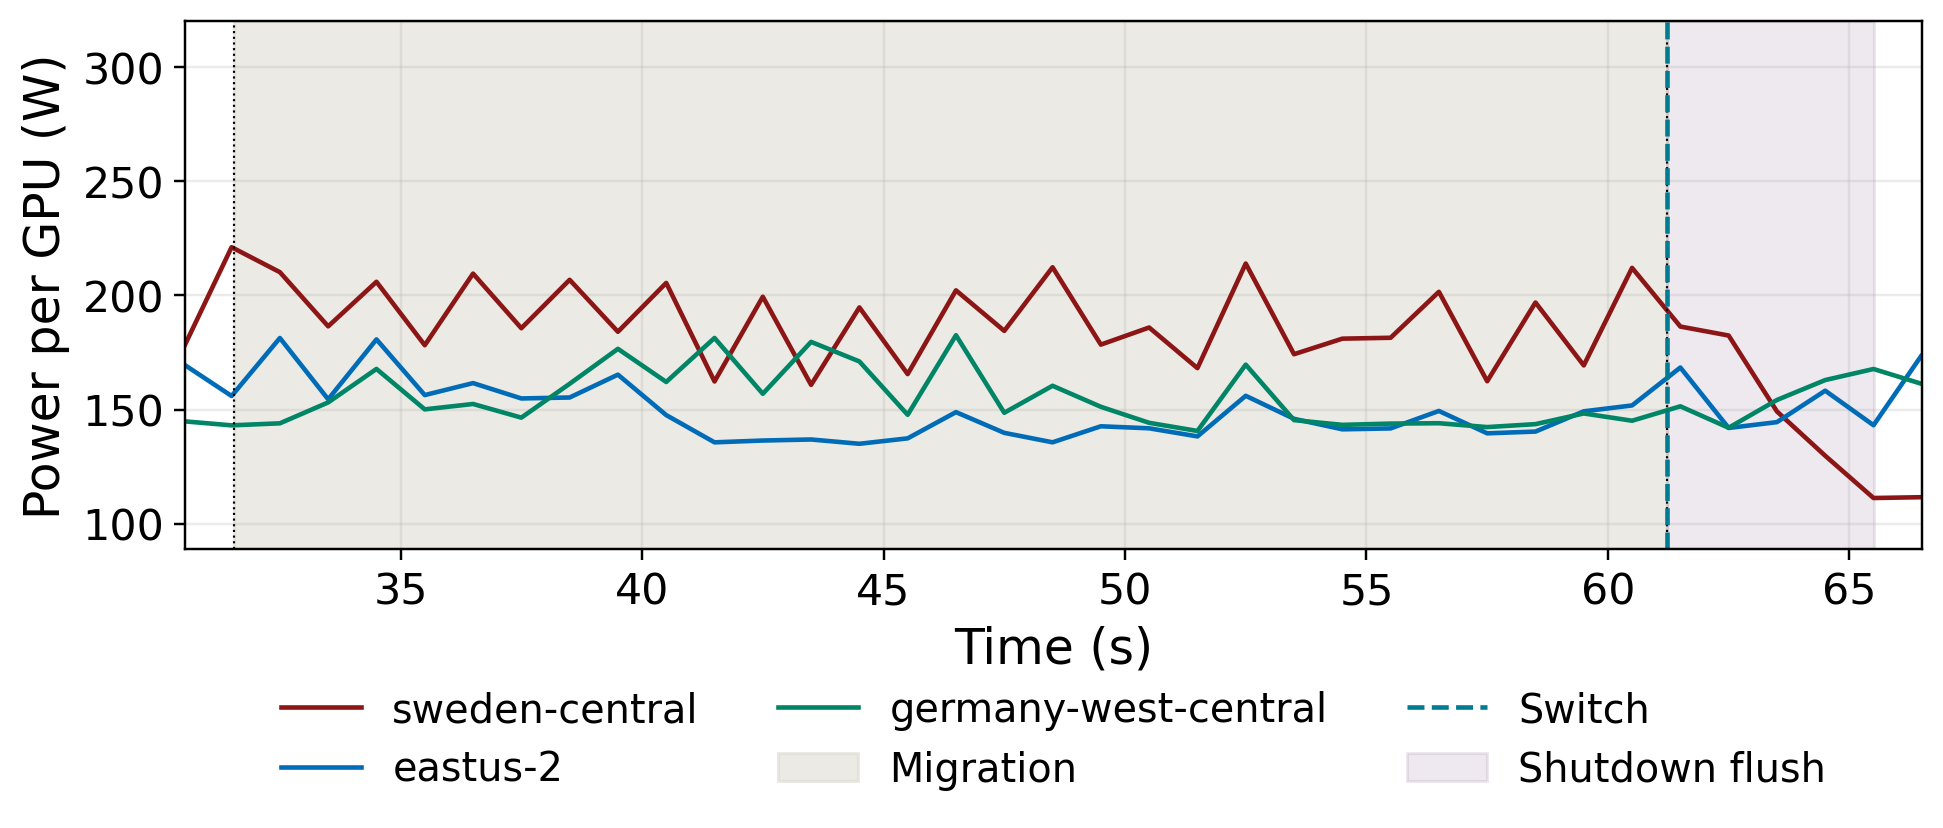
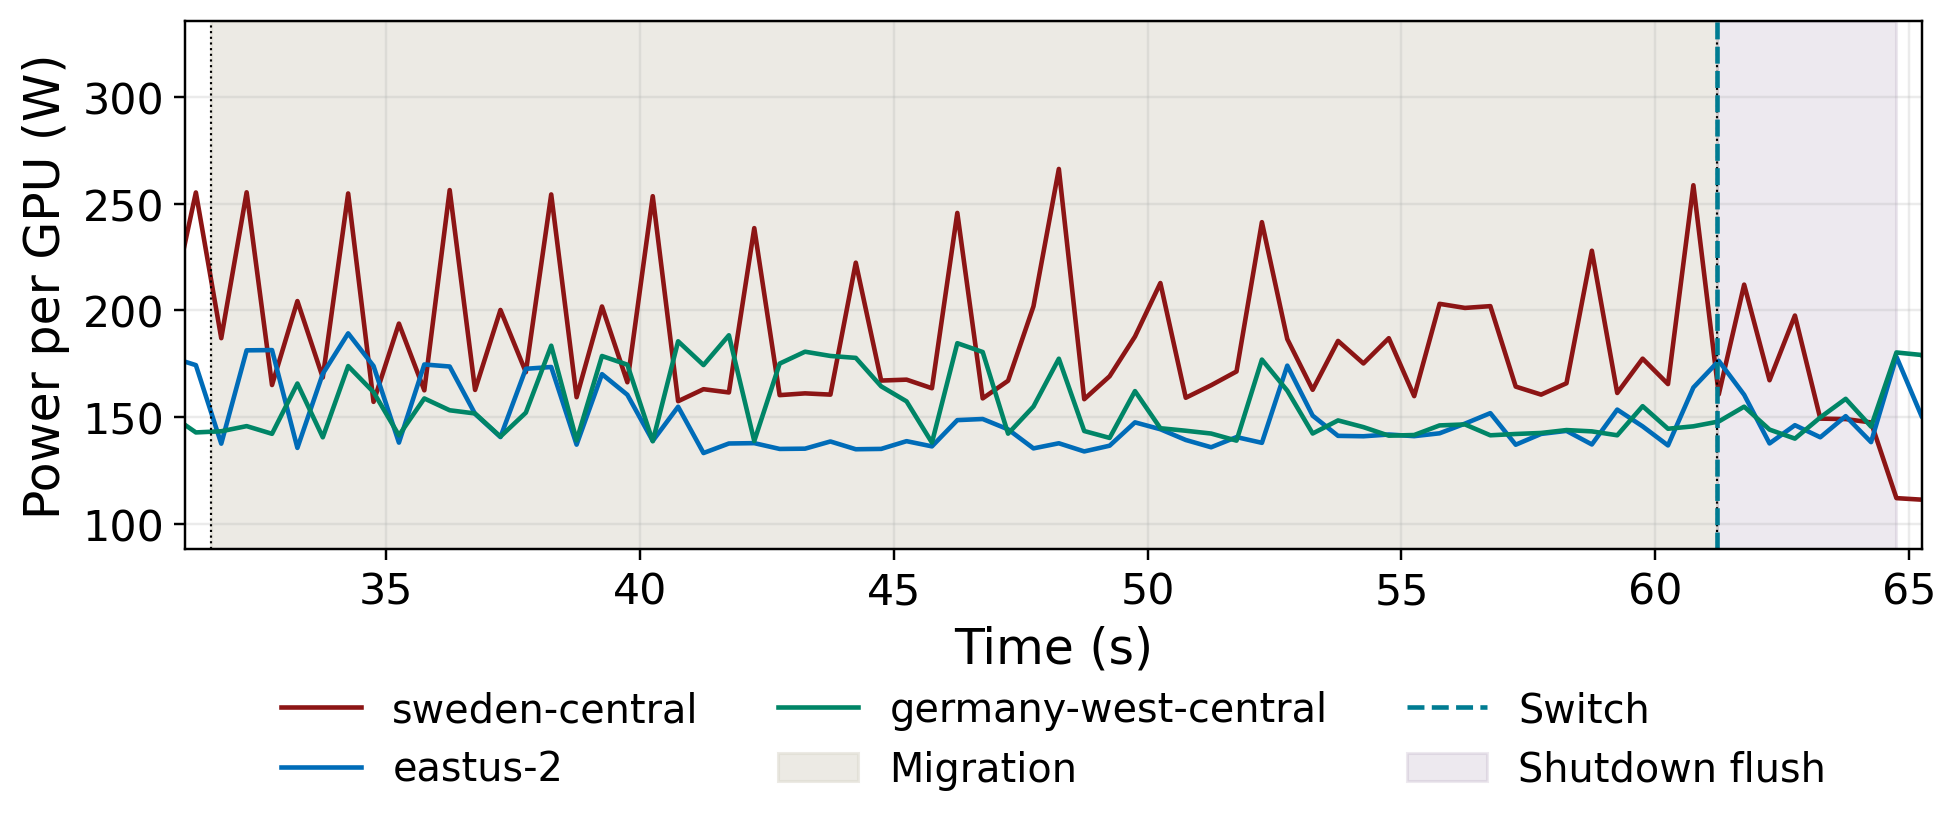
Plot handoff power in 500 ms bins

diff --git a/agent-migrate/queue-haul/tests/test_plot_handoff_power.py b/agent-migrate/queue-haul/tests/test_plot_handoff_power.py
@@ -1,11 +1,11 @@
 """
 Claim:
-Handoff plots align each region's 1-second power means to event timestamps and
+Handoff plots align each region's 500 ms power means to event timestamps and
 show the post-switch shutdown flush until source power reaches its idle band.
 
 Plausible wrong implementations:
 - use the wrong event as the shared time origin
-- place a boundary sample in the wrong 1-second bin
+- place a boundary sample in the wrong 500 ms bin
 - assign a destination's samples to the wrong region
 - aggregate power across regions instead of within each region and time bin
 - hide the sub-second traffic switch by rendering it as a zero-width span
@@ -66,14 +66,14 @@ def test_reduce_aligns_power_regions_and_queue_depth(tmp_path, monkeypatch):
     assert len(queue) == 12
     assert (tmp_path / "power_handoff.png").is_file()
     axis = p.plt.gcf().axes[0]
-    assert axis.get_xlim() == (0, 3.5)
+    assert axis.get_xlim() == (.5, 3.25)
     switch = next(line for line in axis.lines if line.get_label() == "Switch")
     assert list(switch.get_xdata()) == [1.5001, 1.5001]
     shutdown = next(patch for patch in axis.patches
                     if patch.get_label() == "Shutdown flush")
-    assert (shutdown.get_x(), round(shutdown.get_width(), 4)) == (1.5001, .9999)
+    assert (shutdown.get_x(), round(shutdown.get_width(), 4)) == (1.5001, 1.2499)
 
 
-def test_bin_mean_uses_fixed_one_second_windows():
-    assert p.bin_mean([(.9, 10), (1, 20), (1.9, 40), (2, 80)]) == (
-        [.5, 1.5, 2.5], [10, 30, 80])
+def test_bin_mean_uses_fixed_half_second_windows():
+    assert p.bin_mean([(.49, 10), (.5, 20), (.99, 40), (1, 80)]) == (
+        [.25, .75, 1.25], [10, 30, 80])

diff --git a/agent-migrate/queue-haul/plot_handoff_power.py b/agent-migrate/queue-haul/plot_handoff_power.py
@@ -19,7 +19,7 @@ COLORS = {"sweden": "#8C1515", "east": "#006CB8",
 REGIONS = {"sweden": "sweden-central", "east": "eastus-2",
            "west": "west-europe", "germany": "germany-west-central"}
 SPANS = (("Migration", "handoff_start", "handoff_end", "#DAD7CB", .5),)
-BIN_S = 1
+BIN_S = .5
 IDLE_MARGIN_W = 5
 
 

diff --git a/agent-migrate/queue-haul/README.md b/agent-migrate/queue-haul/README.md
@@ -723,7 +723,7 @@ checksum-pinned raw data.
 Sweden-to-East-US-2/West-Germany campaign with 80% source and 50% load at each
 destination. Queue Haul admitted all eight sessions in 29.669 s and KV-only in
 25.159 s; replay-only admitted six before the fixed 30-second deadline. The
-bundle includes raw `power.csv`, load and transfer telemetry, separate 1-second
+bundle includes raw `power.csv`, load and transfer telemetry, separate 500 ms
 mean regional-power plots focused on each completed arm's migration and the
 post-switch flush until measured source power reaches its idle band, and the
 exact plan and composed non-formal calibration used.
